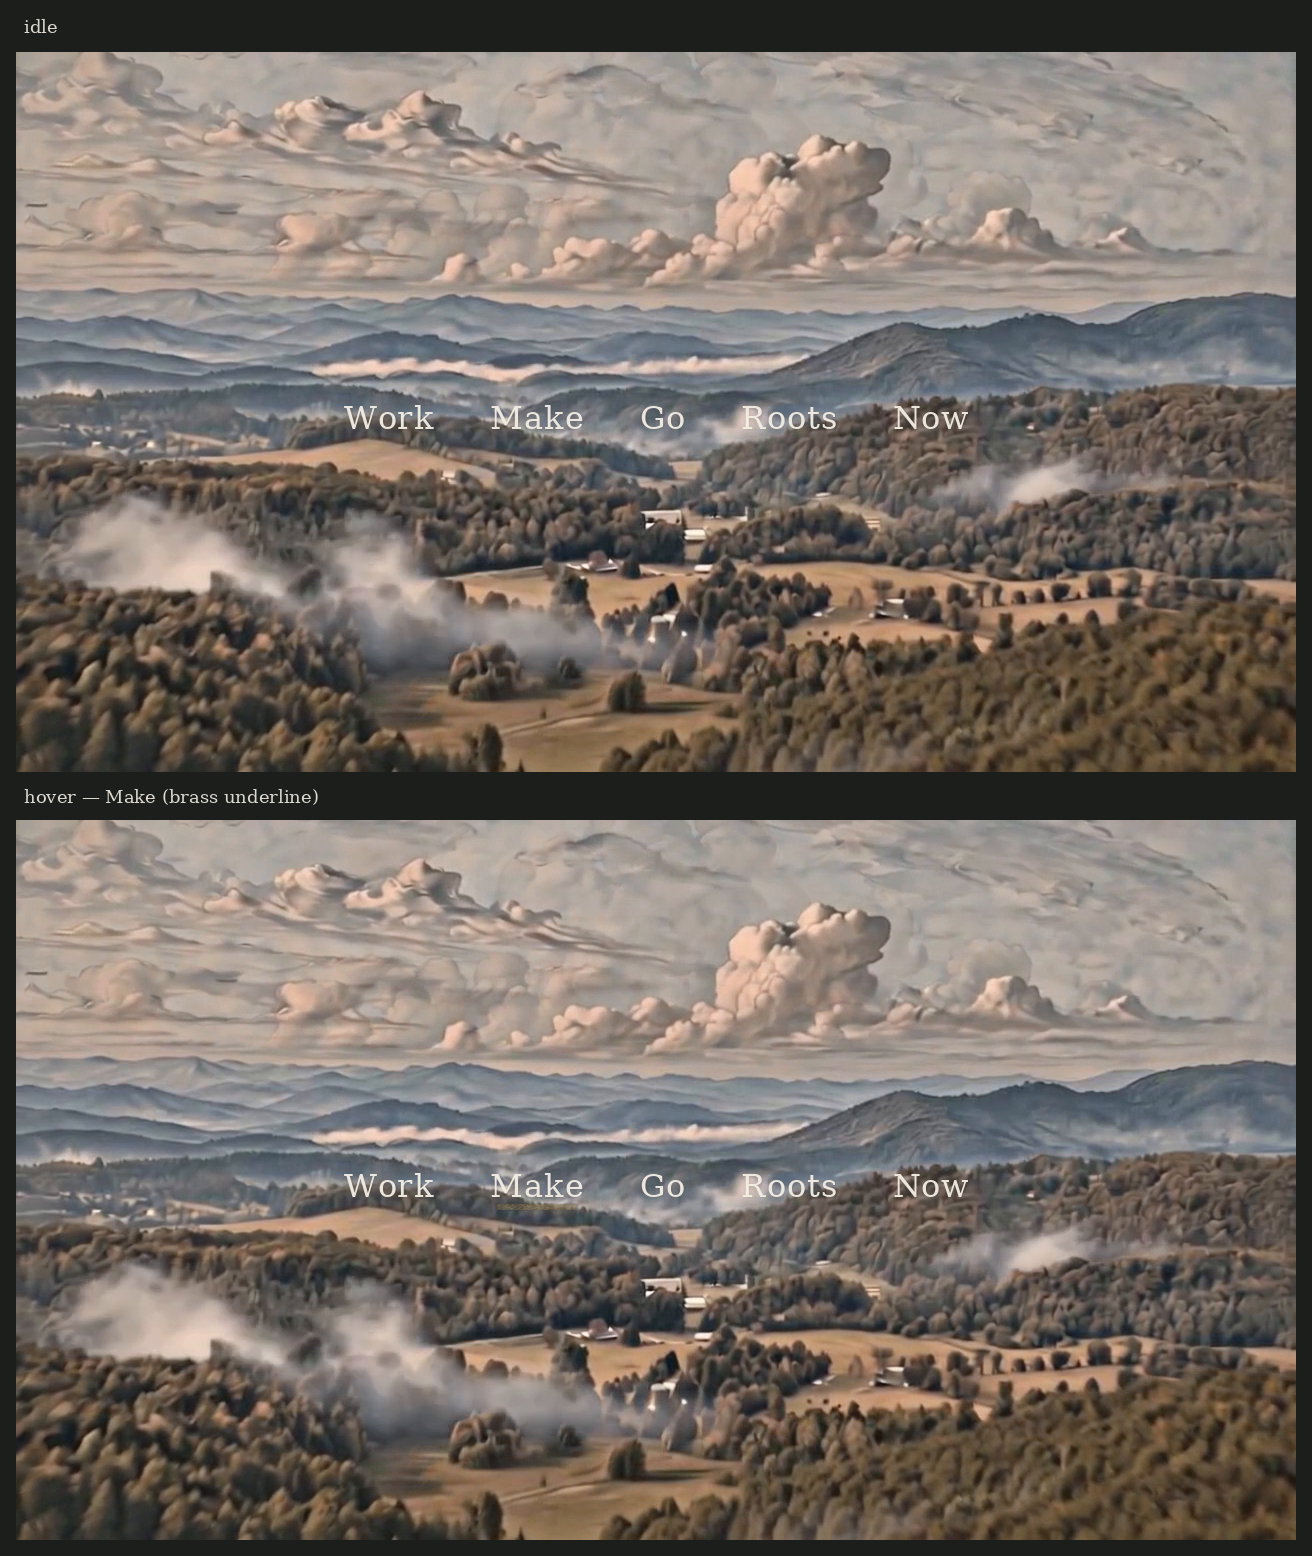
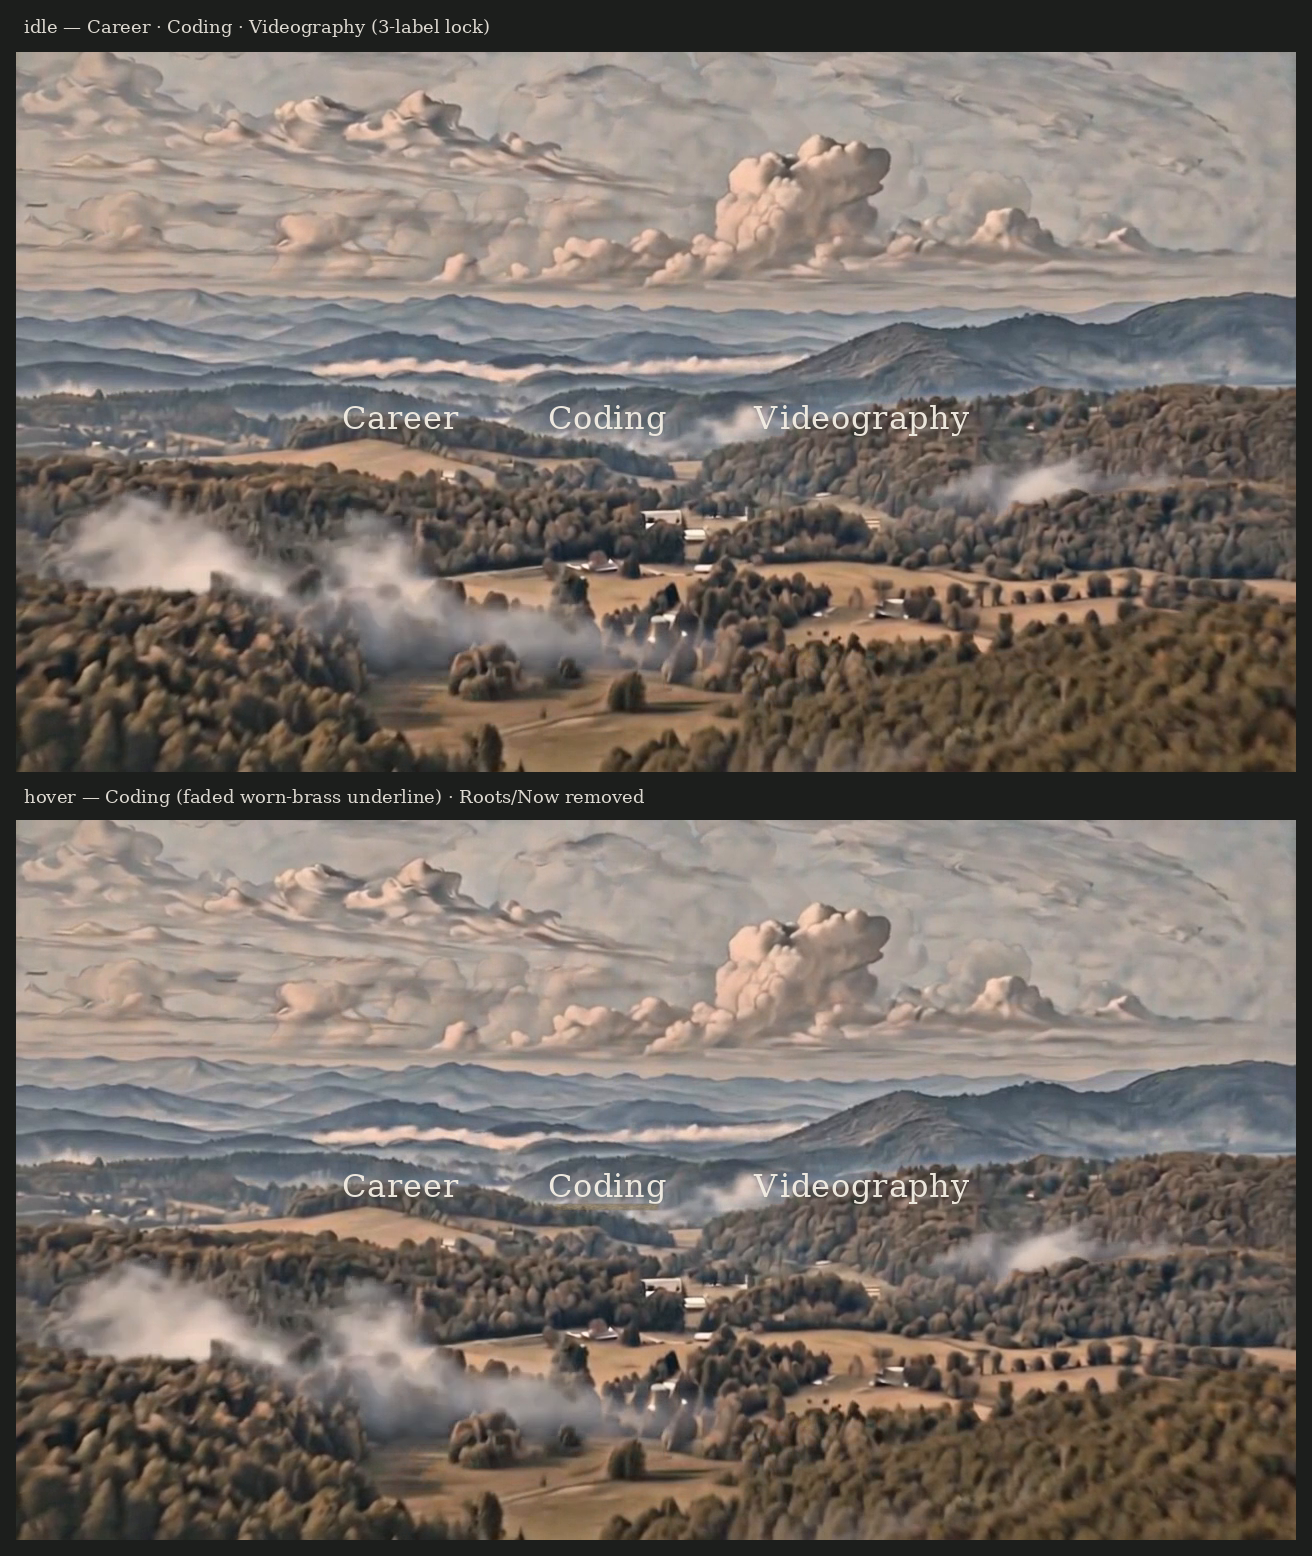
Hot-swap 3-label mist menu comps (Career/Coding/Videography)

diff --git a/public/art/v3/menu/MIST_MENU_SPECS.md b/public/art/v3/menu/MIST_MENU_SPECS.md
@@ -1,6 +1,7 @@
 # Mist Menu — DojoDev wire specs (Look v3)
 
 **Status:** Brandon LOCKED 2026-09-13 — concept **#1 Mist labels** + **#5 hover**. Soft polish: hover underline → **3× thicker faded worn-brass grain** (was ~2px cream).  
+**Streamline (Brandon via Guido):** **THREE labels only** — `Career` `Coding` `Videography`. **Roots** and **Now** removed. Renames: Work→Career, Make→Coding, Go→Videography.  
 **Plate:** exact loop still `refs/stills/loop_07s.png` (1280×720). Do **not** regenerate landscape.
 
 ## Scrap for menu chrome
@@ -11,8 +12,8 @@
 ## Locked behavior
 | State | Treatment |
 |-------|-----------|
-| **Idle** | Three cream serif labels float mid-frame: `Career` `Coding` `Videography` — **spaced words, no interpuncts** (mist #1, not brass/horizon dots). Roots and Now are unpublished. |
-| **Hover / selected** | Same bar: Pixel PASS `mist_underline_brass.png` (~**6px** visual weight @1280 = 3× prior cream). Soft edges + grain. **Not** cream `#F3EEE4`; labels stay cream. |
+| **Idle** | Three cream serif labels float mid-frame: `Career` `Coding` `Videography` — **spaced words, no interpuncts** (mist #1, not brass/horizon dots). |
+| **Hover** | Soft **faded worn-brass** underline under the hovered word only (~**6px** visual weight @1280 = 3× prior cream). Soft edges + grain texture. **Not** color invert / fill swap; labels stay cream. Comp demo underline sits under **Coding**. |
 | **Selected** | Keep existing **`leather_panel`** reveal for room content. Loop continues behind. Panel path unchanged. |
 
 ## Typography tokens (at 1280 CSS px width)
@@ -20,13 +21,13 @@ Scale linearly with viewport (`calc` / `clamp` from 1280 reference).
 
 | Token | Value | Notes |
 |-------|-------|-------|
-| `font-family` | `"DejaVu Serif", "Liberation Serif", "PT Serif", Georgia, "Times New Roman", serif` | Comp used **DejaVu Serif Regular**. Production uses **PT Serif**. |
-| `font-size` | **32px** @ 1280 | ~2.5% of width (`2.5vw` capped). |
+| `font-family` | `"DejaVu Serif", "Liberation Serif", "PT Serif", Georgia, "Times New Roman", serif` | Comp used **DejaVu Serif Regular** (`/usr/share/fonts/truetype/dejavu/DejaVuSerif.ttf`). Prefer a web-licensed serif of similar metric (e.g. PT Serif / Source Serif) in production. |
+| `font-size` | **32px** @ 1280 | ~2.5% of width (`2.5vw` capped). **No nudge** for Videography — fits at 32 with rebalanced gap. |
 | `font-weight` | `400` | Regular; no bold on idle. |
 | `letter-spacing` | **~0.025em** (~0.8px @ 32) | Subtle tracking; words stay readable. |
 | `color` | `#F3EEE4` | Cream / ivory. |
 | `opacity` | **0.95** | Or `rgba(243, 238, 228, 0.95)`. |
-| Word gap | **~56px** @ 1280 between label boxes | Airy mist spacing; flex `gap` ~ `4.375vw` (tune to match comps). |
+| Word gap | **~88px** @ 1280 between label boxes | Airy mist spacing for **3 longer words** (was ~56px for 5 short labels). Flex `gap` ~ `6.875vw` (tune to match comps). Side margin ≈326px @1280. |
 | Vertical | Mid-frame | Glyph optical center ≈ **y = 362** @ 720 (~50.3% from top). Baseline ≈ 377. |
 
 ### Text-shadow (multi-pass forest contrast)
@@ -41,9 +42,8 @@ text-shadow:
   0 0 1px rgba(20, 24, 18, 0.18);
 ```
 
-## Hover underline (Pixel PASS brass)
-
-**Thickness:** ~**6px** visual weight @1280 CSS px (3× the prior ~2px cream bar). Scale with viewport (`0.47vw` ≈ 6/1280). Soft alpha edges; optical core ≈6px inside a ~10px strip.
+## Hover underline (soft polish — brass grain)
+**Thickness:** ~**6px** visual weight @1280 CSS px (3× the prior ~2px cream bar). Scale with viewport (`0.47vw` ≈ 6/1280, or `height: 0.469vw` capped). Soft alpha edges; optical core ≈6px inside a ~10px strip.
 
 **Color tokens (faded worn brass — not neon / not chrome):**
 | Token | Hex | Notes |
@@ -57,12 +57,46 @@ text-shadow:
 **Texture assets:**
 | File | Size | Role |
 |------|------|------|
-| `public/art/v3/menu/mist_underline_brass.png` | 192×10 RGBA | Soft-edged horizontal strip; scale to label width |
-| `public/art/v3/menu/mist_underline_brass_tile.png` | 64×10 RGBA | Optional 1D-seamless tile for `background-repeat: repeat-x` |
+| `finals/v3/menu/mist_underline_brass.png` | 192×10 RGBA | Soft-edged horizontal strip; scale to label width |
+| `finals/v3/menu/mist_underline_brass_tile.png` | 64×10 RGBA | Optional 1D-seamless tile for `background-repeat: repeat-x` |
 
-- Labels stay mist cream (`#F3EEE4`); only the underline is brass.
+```css
+/* preferred: ::after + brass texture strip */
+.nav-label {
+  position: relative;
+  text-decoration: none;
+}
+.nav-label::after {
+  content: "";
+  position: absolute;
+  left: 1px;
+  right: 1px;
+  top: calc(100% + 5px); /* ~5px gap below baseline box */
+  height: 6px; /* visual weight @1280; strip asset is 10px with soft alpha */
+  background-color: rgba(181, 154, 98, 0.78); /* fallback */
+  background-image: url("/art/menu/mist_underline_brass.png");
+  background-size: 100% 100%; /* or: contain / 100% auto */
+  background-repeat: no-repeat;
+  background-position: center;
+  border-radius: 1px;
+  opacity: 0;
+  filter: blur(0.35px); /* keep grain readable; avoid washing to chrome */
+  transition: opacity 160ms ease;
+}
+.nav-label:hover::after,
+.nav-label:focus-visible::after {
+  opacity: 0.92; /* slight fade — worn, not neon bar */
+}
+
+/* optional seamless tile variant */
+.nav-label.tile-underline::after {
+  background-image: url("/art/menu/mist_underline_brass_tile.png");
+  background-repeat: repeat-x;
+  background-size: auto 100%;
+}
+```
+- Labels stay mist cream (`#F3EEE4`); only the underline shifts to brass.
 - Soft edges live in the PNG alpha — prefer texture over a hard CSS `border-bottom`.
-- Hover **and selected** share this bar. Do **not** ship a cream hairline.
 
 ## Layout sketch
 ```html
@@ -79,7 +113,7 @@ text-shadow:
   top: 50.3%;
   transform: translate(-50%, -50%);
   display: flex;
-  gap: 56px; /* @ 1280 ref */
+  gap: 88px; /* @ 1280 ref — 3 longer words; was 56px for 5 short */
   z-index: 2;
   pointer-events: auto;
 }
@@ -89,20 +123,26 @@ Video / loop sits full-bleed underneath (`object-fit: cover`). No menu sprite la
 ## Comp asset paths
 | File | Role |
 |------|------|
-| `public/art/v3/menu/mist_idle_on_loop.png` | Idle on exact `loop_07s` |
-| `public/art/v3/menu/mist_hover_make_on_loop.png` | Same + **~6px faded brass** underline under **Make** only |
-| `public/art/v3/menu/mist_contact.png` | Stacked idle \| hover contact with captions |
-| `public/art/v3/menu/mist_underline_brass.png` | RGBA brass grain strip for CSS `::after` |
-| `public/art/v3/menu/mist_underline_brass_tile.png` | Optional seamless 1D tile |
-| Concepts (ref only, do not overwrite) | `finals/v3/menu/concepts/01_mist_labels.png`, `05_horizon_type.png` |
+| `/workspace/brandon-site-art/finals/v3/menu/mist_idle_on_loop.png` | Idle on exact `loop_07s` — Career Coding Videography |
+| `/workspace/brandon-site-art/finals/v3/menu/mist_hover_coding_on_loop.png` | **Canonical** hover — ~6px faded brass underline under **Coding** |
+| `/workspace/brandon-site-art/finals/v3/menu/mist_hover_make_on_loop.png` | **Alias** (byte-identical to `mist_hover_coding_on_loop.png`) for DojoDev path continuity |
+| `/workspace/brandon-site-art/finals/v3/menu/mist_contact.png` | Stacked idle \| hover contact; captions note 3-label lock |
+| `/workspace/brandon-site-art/finals/v3/menu/mist_underline_brass.png` | RGBA brass grain strip for CSS `::after` |
+| `/workspace/brandon-site-art/finals/v3/menu/mist_underline_brass_tile.png` | Optional seamless 1D tile |
+| Concepts (ref only, do not overwrite) | `finals/v3/menu/concepts/` — historical **5-option** comps; leave as-is |
+
+## Removed
+- **Roots** and **Now** — gone from mist menu (no hrefs, no comps in production idle/hover).
+- Old short labels Work / Make / Go — renamed to Career / Coding / Videography.
 
 ## Out of scope / do not touch
 - `leather_panel` / `finals/v3/cards/` — keep selected-room reveal as-is.
-- `concepts/` folder — reference only.
+- `concepts/` folder — reference only (historical 5-option comps).
 - Do not regenerate blot art for this menu path.
+- Do not regenerate brass underline textures unless broken — reuse existing.
 
 ## Soft concerns
-- DejaVu is the **comp** face; production uses PT Serif.
+- DejaVu is the **comp** face; swap to a licensed web serif with similar width before ship.
 - Cream on bright mist patches needs the multi-pass shadow; if still thin on some loop frames, nudge shadow opacity slightly rather than adding chrome.
-- Word-gap may need ±8px tuning once live over motion video vs the still.
+- Word-gap may need ±8px tuning once live over motion video vs the still (Videography is wide — prefer airy over cramped).
 - Brass underline: keep opacity ≤0.92 and avoid heavy glow — reads as worn metal, not a shiny accent bar.
